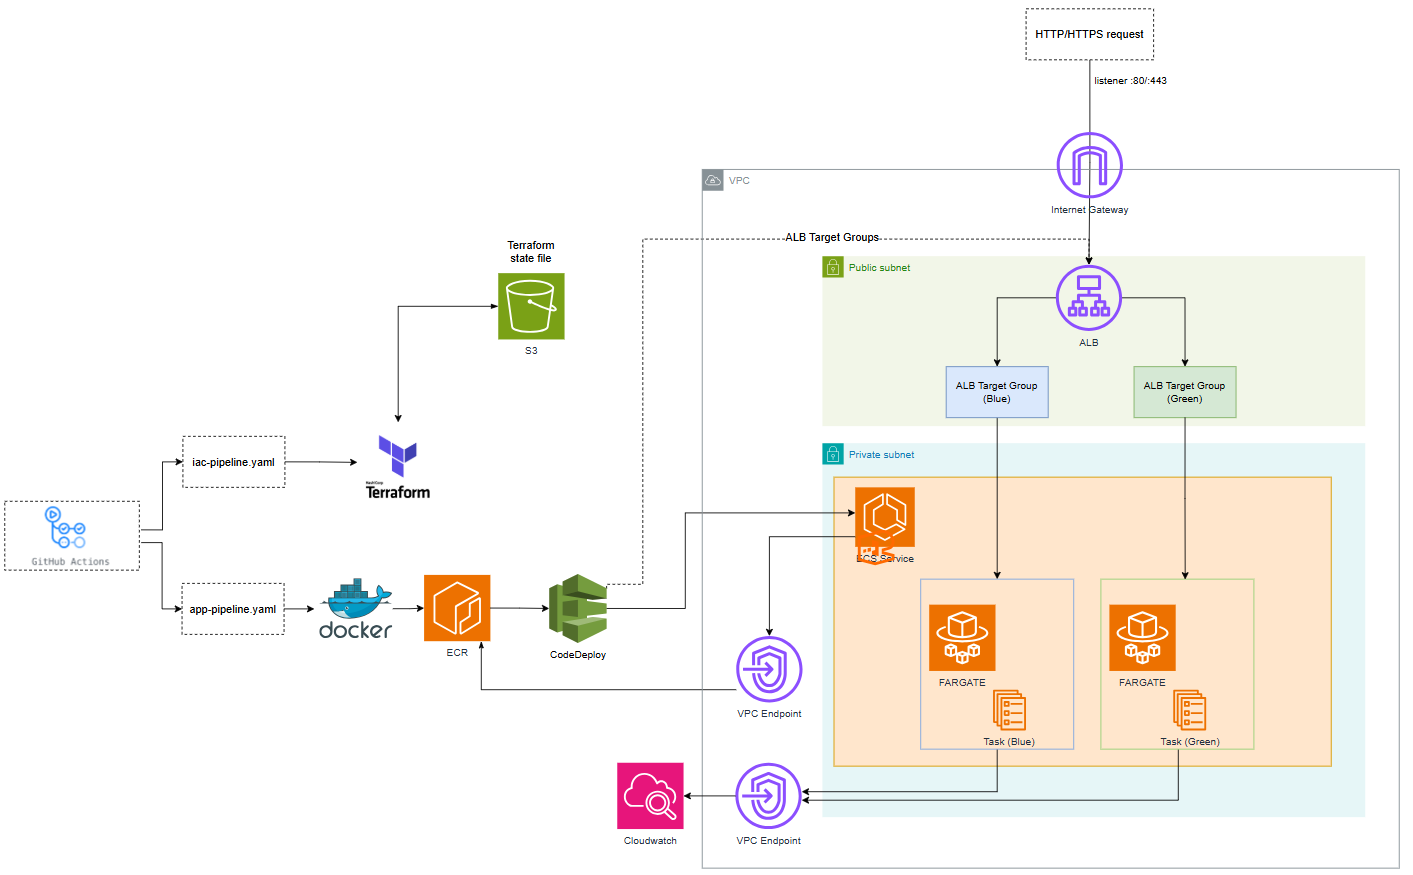
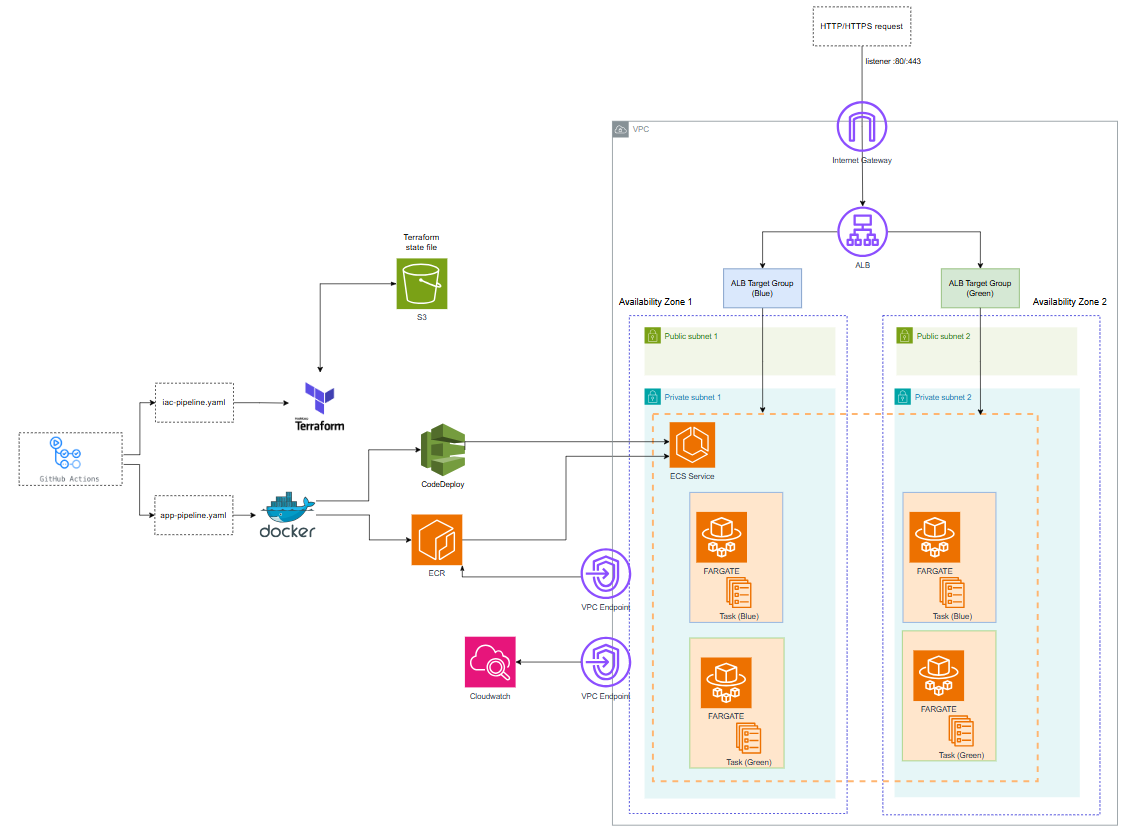
Architecture is updated. ALB is created.

diff --git a/README.md b/README.md
@@ -2,11 +2,11 @@
 
 This project demonstrates a AWS container deployment using ECS Fargate with a separation between infrastructure and application delivery.
 
-Infrastructure is managed with Terraform and is responsible only for AWS resources such as networking, ECS, IAM, ECR, and the Application Load Balancer. Application builds and deployments are handled separately using GitHub Actions and immutable container images.
+Infrastructure is managed with Terraform and is responsible for AWS resources such as networking, ECS, IAM, ECR, and the Application Load Balancer. Application builds and deployments are handled separately using GitHub Actions and immutable container images.
 
 The application runs as a FastAPI service on ECS Fargate behind an Application Load Balancer. New versions are deployed by building and pushing a Docker image to ECR and forcing a new ECS service deployment, without reapplying Terraform.
 
-This structure is designed to be reusable and extensible for future workloads such as scheduled Fargate tasks, Lambda container functions, and ML model pipelines.
+This structure is designed to be reusable and extensible for workloads such as scheduled Fargate tasks and ML model pipelines.
 
 
 ## Architecture
@@ -28,13 +28,14 @@ Future improvements:
 - add authentication/authorisation in front of the service
 - enable AWS WAF on the ALB for basic protection (rate limiting, common rules)
 - store secrets in Secrets Manager
-- restrict egress where possible (VPC endpoints for ECR and CloudWatch Logs, no public internet from tasks)  
+
 
 ## Application container
 
 This repository includes a small FastAPI application packaged as a Docker container to demonstrate application delivery on ECS Fargate.
 
-The service exposes a simple API for training and running a simple machine-learning model and is used as an example workload for the infrastructure.
+The service exposes a simple API for training and running a deep-learning model (a small neural network) using FastAI. The model performs basic tabular regression and is used as a simple example workload for the infrastructure.
+
 
 ### Run locally
 
